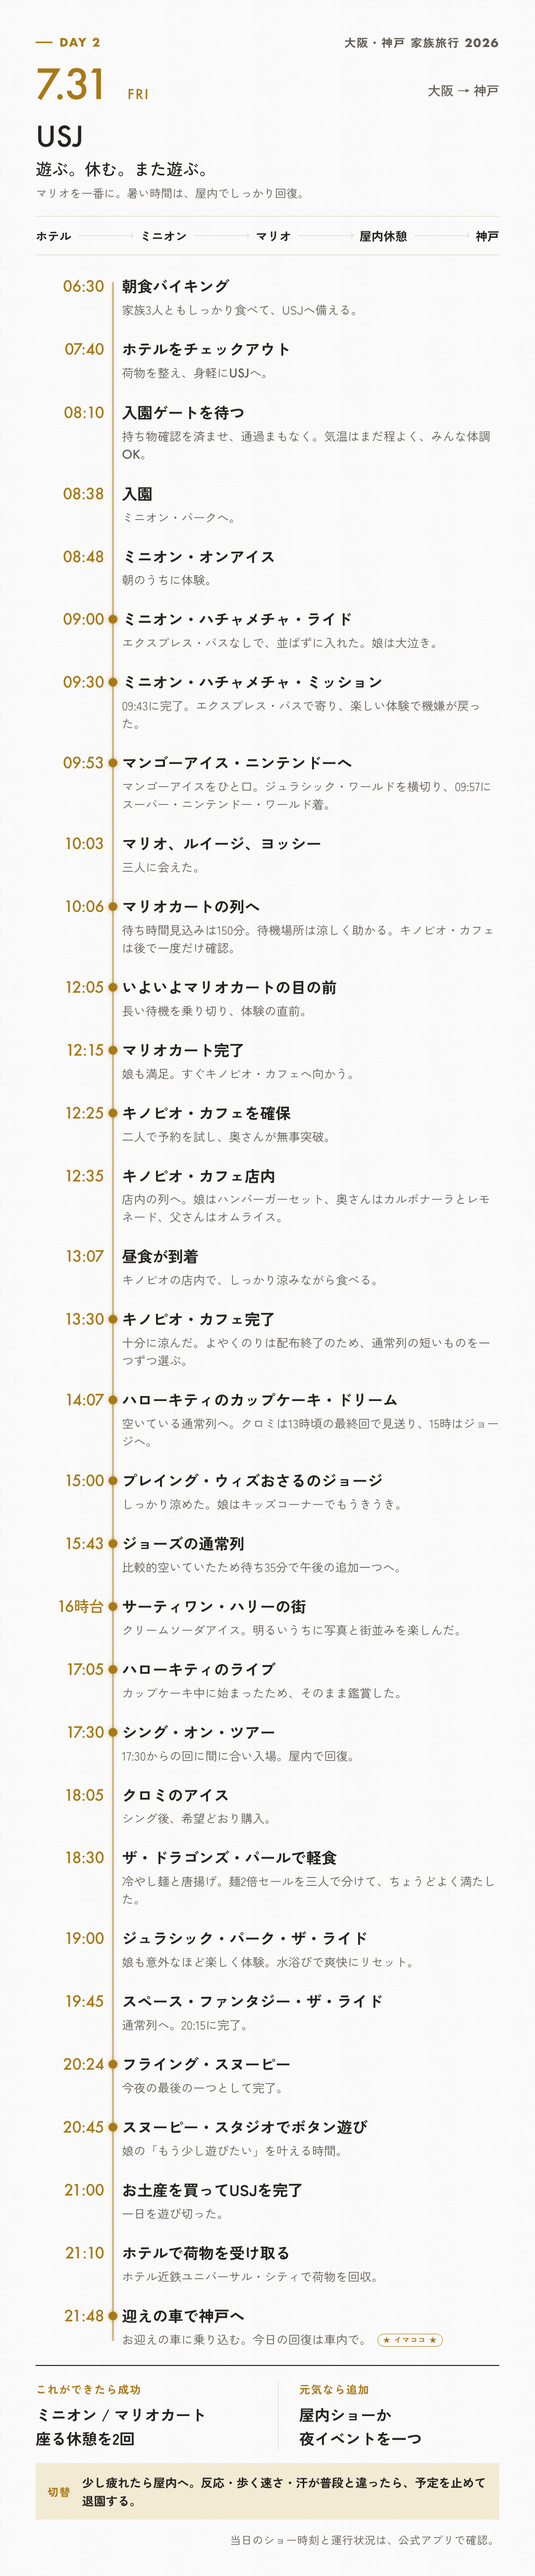
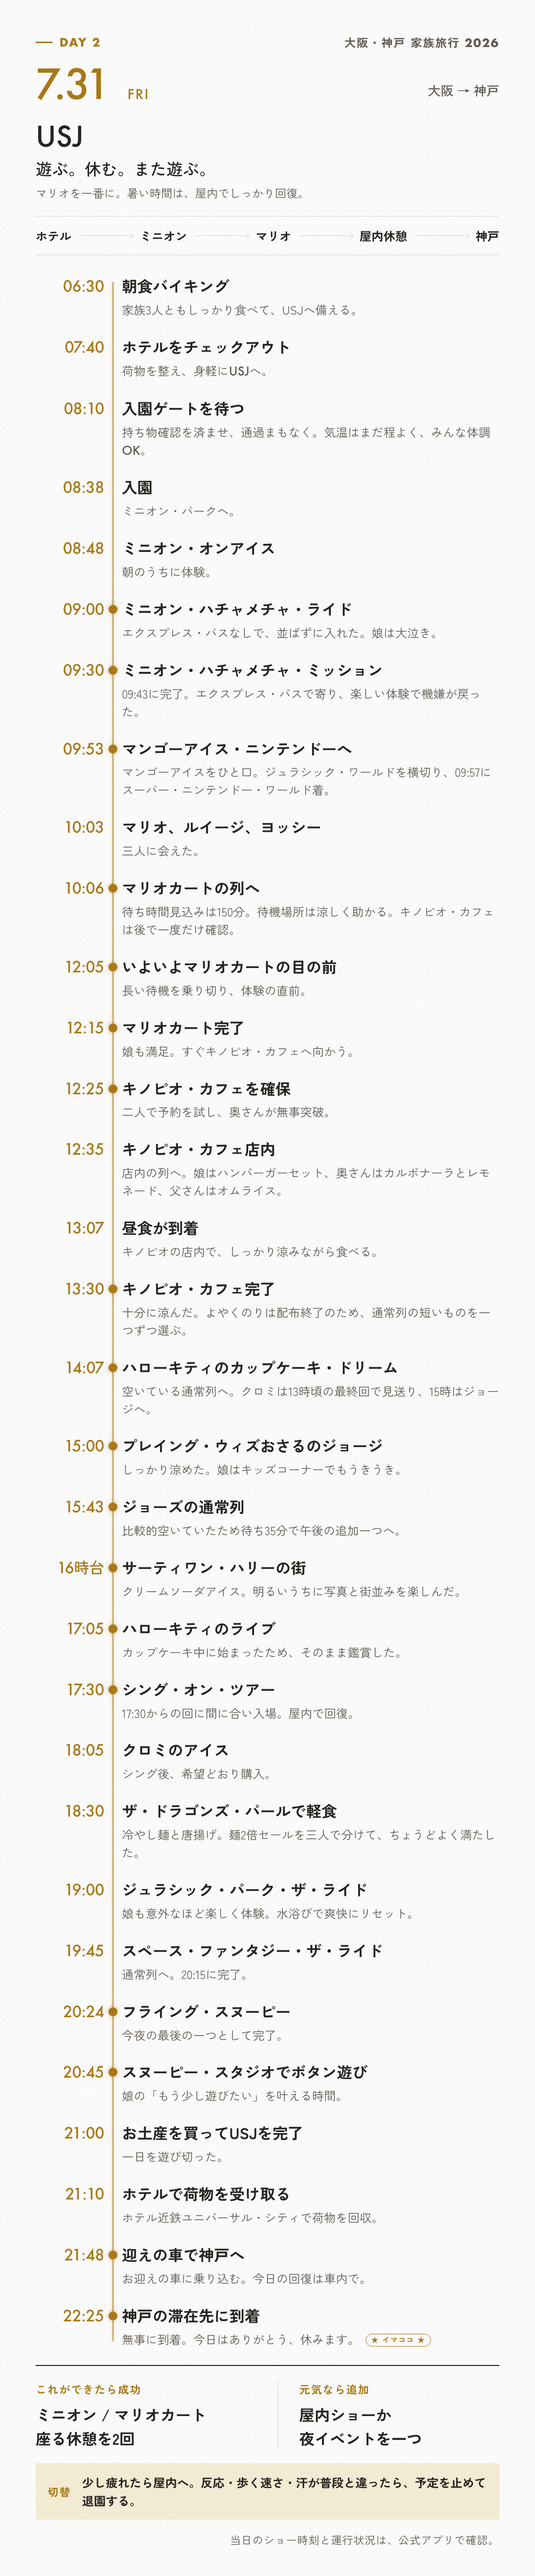
Complete USJ day record

diff --git a/docs/usj-guide.html b/docs/usj-guide.html
@@ -142,7 +142,11 @@
             </div>
             <div class="timeline__item">
               <time>21:48</time>
-              <div><h3>神戸へ向かう車に乗車</h3><p>迎えの車が到着。神戸へ。<span class="now-marker">★ イマココ ★</span></p></div>
+              <div><h3>神戸へ向かう車に乗車</h3><p>迎えの車が到着。神戸へ。</p></div>
+            </div>
+            <div class="timeline__item">
+              <time>22:25</time>
+              <div><h3>神戸の滞在先に到着</h3><p>無事に到着。今日のお礼を伝えて休む。<span class="now-marker">★ イマココ ★</span></p></div>
             </div>
           </div>
         </section>
@@ -181,15 +185,15 @@
         <section>
           <div class="eyebrow"><span aria-hidden="true"></span>FAMILY DECISION</div>
           <h2>ここからの判断</h2>
-          <p class="status-note"><span class="now-marker">★ イマココ ★</span> 21:48、迎えの車で神戸へ移動中。USJの予定はすべて完了した。</p>
+          <p class="status-note"><span class="now-marker">★ イマココ ★</span> 22:25、神戸の滞在先に無事到着。USJの一日を終え、今日は休む。</p>
           <div class="mini-grid">
             <div>
-              <h3>いま: 神戸へ移動中</h3>
-              <p>21:48、迎えの車に乗車。今日の回復は車内で取る。</p>
+              <h3>いま: 神戸の滞在先</h3>
+              <p>22:25、無事到着。今日のお礼を伝えて休む。</p>
             </div>
             <div>
-              <h3>今日の目的地</h3>
-              <p>神戸の滞在先へ。到着後は水分と着替えを整え、早めに休む。</p>
+              <h3>今夜のこと</h3>
+              <p>水分と着替えを整え、明日の神戸時間に備えて早めに休む。</p>
             </div>
             <div>
               <h3>今日の達成</h3>
@@ -197,7 +201,7 @@
             </div>
           </div>
           <p class="route-line">
-            神戸へ移動 → 到着後に水分・着替え → 休む
+            到着 → 水分・着替え → 休む
           </p>
           <p class="deadline-note">
             <strong>終了済み:</strong> よやくのり、クロミ・ライブ、朝の整理券判断。いまは新しい券や期限を追わず、目の前の待ち時間と娘の反応で決める。
@@ -217,19 +221,19 @@
             <div class="timeline__item">
               <time>20:24</time>
               <div>
-                <h3>USJを完了</h3>
-                <p>21:00にお土産を買い、21:10にホテルで荷物を回収した。</p>
+                <h3>USJを完了して神戸へ</h3>
+                <p>21:00にお土産、21:10に荷物を回収し、21:48に迎えの車へ乗った。</p>
               </div>
             </div>
             <div class="timeline__item">
-              <time>21:48</time>
+              <time>22:25</time>
               <div>
-                <h3>神戸へ向かう車</h3>
-                <p>迎えの車に乗車。<span class="now-marker">★ イマココ ★</span></p>
+                <h3>神戸の滞在先に到着</h3>
+                <p>無事に到着。<span class="now-marker">★ イマココ ★</span></p>
               </div>
             </div>
             <div class="timeline__item">
-              <time>到着後</time>
+              <time>今夜</time>
               <div>
                 <h3>水分・着替え・休息</h3>
                 <p>明日の神戸時間に備え、今日は回復を優先する。</p>
@@ -355,9 +359,9 @@
         <section>
           <h2>今夜の候補</h2>
           <div class="mini-grid">
-            <div><h3>いま</h3><p>21:48、迎えの車で神戸へ移動中。</p></div>
-            <div><h3>完了</h3><p>21:00にお土産、21:10にホテルで荷物を受け取った。</p></div>
-            <div><h3>到着後</h3><p>水分と着替えを整え、今日は休む。</p></div>
+            <div><h3>いま</h3><p>22:25、神戸の滞在先に無事到着。</p></div>
+            <div><h3>完了</h3><p>21:00にお土産、21:10にホテルで荷物を受け取り、迎えの車で神戸へ移動。</p></div>
+            <div><h3>今夜</h3><p>水分と着替えを整え、今日は休む。</p></div>
             <div><h3>明日</h3><p>神戸の家族と当日の流れを相談して決める。</p></div>
           </div>
           <p class="direction-note">

diff --git a/docs/trip-plan.html b/docs/trip-plan.html
@@ -413,11 +413,11 @@
             </div>
             <div>
               <h3>現在</h3>
-              <p><span class="now-marker">★ イマココ ★</span> 21:48、迎えの車に乗り神戸へ移動中。</p>
+              <p><span class="now-marker">★ イマココ ★</span> 22:25、神戸の滞在先に無事到着。</p>
             </div>
             <div>
               <h3>この後</h3>
-              <p>21:00にお土産、21:10にホテルで荷物を回収。到着後は水分と着替えを整え、早めに休む。</p>
+              <p>21:00にお土産、21:10にホテルで荷物を回収し、迎えの車で移動。到着後は水分と着替えを整え、早めに休む。</p>
             </div>
           </div>
           <p>時刻つきの実績、現在地、ここからの判断は、<a href="usj-guide.html">USJ当日ガイド</a>を正本とする。</p>
